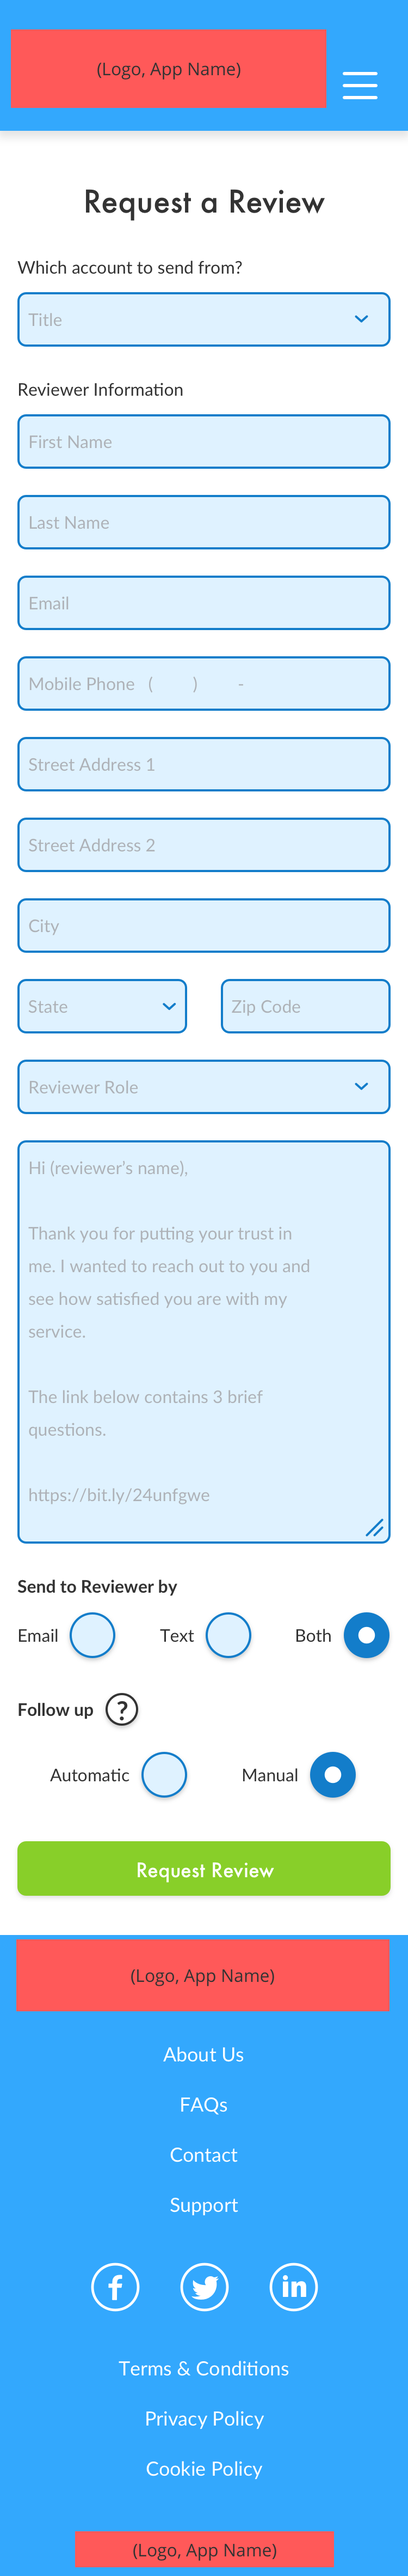
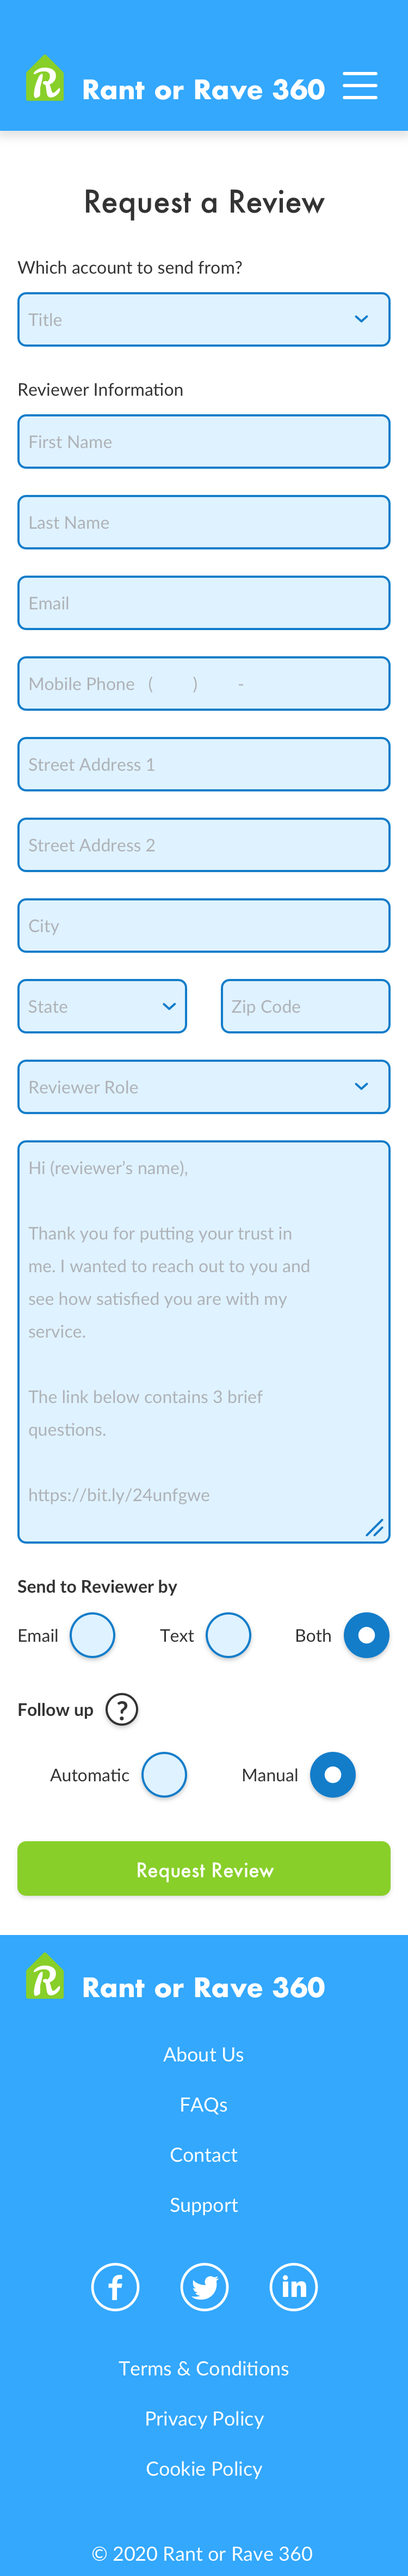
revealed Rant or Rave stuff, revised project page

Changed region(s): [[0.0307, 0.7465, 0.9813, 0.8087], [0.0307, 0.0, 0.7973, 0.0622], [0.184, 0.9642, 0.828, 1.0]]

diff --git a/spark6.html b/spark6.html
@@ -55,7 +55,7 @@
     <link rel="stylesheet" type="text/css" href="./public/css/style.css">
 
 
-    <title>SPARK6 Project "R"</title>
+    <title>Brenton Jenkins Rant or Rave 360 Project</title>
 
 </head>
 
@@ -101,14 +101,14 @@
     </div>
 
     <div class="display-flex">
-        <img class="spark6-top-pic" src=./public/images/spark6/homes-top-image.jpg
+        <img class="spark6-top-pic" src=./public/images/spark6/spark6-topimage.jpg
             alt="Advertisement Designs on Background">
     </div>
 
     <div class="container">
 
         <h1 class="project-title">
-            SPARK6 Project "R"
+            Rant or Rave 360
         </h1>
 
         <div class="col-xl-10 offset-xl-1 no-padding-sides">
@@ -132,10 +132,9 @@
 
             <p class="project-paragraph">
                 The client wants to start a ratings and reviews website to help people make informed, educated decisions
-                when choosing the right professionals to collaborate with for home-purchasing. The website will also allow professionals the
-                opportunity to obtain feedback. Project "R" is codename for the project until an MVP has been launched.
-                Please feel free to reach out to me about my policy on sharing detailed screens and interactive
-                prototypes.
+                when choosing the right professionals to collaborate with for home-purchasing. The website will also
+                allow professionals the
+                opportunity to obtain feedback.
             </p>
 
             <div class="flex-center">
@@ -155,7 +154,7 @@
                     </h3>
 
                     <p class="project-paragraph">
-                        Wireframes are completed, <br> starting work on visual design phase
+                        Wireframes, style guide, prototype
                     </p>
                 </div>
             </div>
@@ -222,6 +221,34 @@
                 feedback to the professional about the quality of work provided.
             </p>
 
+            <h3 class="project-subtitle anchor">
+                Wireframe Prototype
+            </h3>
+
+            <p class="project-paragraph">
+                The wireframe prototype can be viewed on InVision through the link below. It was created with Sketch and
+                made
+                interactive with InVision.
+            </p>
+
+            <div class="flex-center">
+                <div class="">
+                    <a href="https://brenton497289.invisionapp.com/public/share/VS10DXPY45#screens/475268935"
+                        target="_blank">
+                        <div class="display-flex">
+                            <img class="prototype-image" src=./public/images/spark6/spark6-wireframes.jpg
+                                alt="Rant or Rave 360 Wireframe Prototype">
+                        </div>
+                    </a>
+                    <a href="https://brenton497289.invisionapp.com/public/share/VS10DXPY45#screens/475268935"
+                        target="_blank">
+                        <p class="project-paragraph prototype-description">
+                            View the wireframe interactive prototype
+                        </p>
+                    </a>
+                </div>
+            </div>
+
             <div class="display-flex">
                 <img class="figure-image-sm" src=./public/images/spark6/spark6-wireframe-sample.png
                     alt="Request a Review screen (wireframe)">
@@ -231,20 +258,6 @@
                 Figure 1: Request a Review screen (wireframe)
             </p>
 
-            <p class="project-paragraph">
-                The image below is a screenshot of the wireframes as they are layed out in Sketch. These screen images
-                were uploaded to InVision, where they were then made into interactive prototypes.
-            </p>
-
-            <div class="display-flex">
-                <img class="figure-image-lg" src=./public/images/spark6/spark6-wireframes.jpg
-                    alt="Wireframes created in Sketch">
-            </div>
-
-            <p class="project-paragraph prototype-description">
-                Figure 2: Wireframes created in Sketch
-            </p>
-
             <h2 class="project-section-title">
                 High-Fidelity Mockups
             </h2>
@@ -252,8 +265,48 @@
             <p class="project-paragraph">
                 Once we determined the wireframes were at a point that
                 communicated the features and functionality
-                effectively, we were ready to move onto higher-fidelity mockups. The style guide below specified the
-                fonts, colors, and components for the Hi-Fi mockups.
+                effectively, we were ready to move onto higher-fidelity mockups.
+            </p>
+
+            <h3 class="project-subtitle anchor">
+                High-Fidelity Prototype
+            </h3>
+
+            <p class="project-paragraph">
+                The prototype can be viewed on InVision through the link below. It was created with Sketch and made
+                interactive with InVision.
+            </p>
+
+            <div class="flex-center">
+                <div class="">
+                    <a href="https://brenton497289.invisionapp.com/public/share/KV11TYV37S#screens/476684307"
+                        target="_blank">
+                        <div class="display-flex">
+                            <img class="prototype-image" src=./public/images/spark6/spark6-hifi-mockups.png
+                                alt="Rant or Rave 360 High-Fidelity Prototype">
+                        </div>
+                    </a>
+                    <a href="https://brenton497289.invisionapp.com/public/share/KV11TYV37S#screens/476684307"
+                        target="_blank">
+                        <p class="project-paragraph prototype-description">
+                            View the high-fidelity interactive prototype
+                        </p>
+                    </a>
+                </div>
+            </div>
+
+            <p class="project-paragraph space-60">
+                The screen below displays the Hi-Fi mockup version of the professional user’s experience for Requesting
+                a Review.
+            </p>
+
+            <div class="display-flex">
+                <img class="figure-image-sm outline-border" src=./public/images/spark6/spark6-hifi-sample.png
+                    alt="Request a Review screen (Hi-Fi screen)">
+            </div>
+
+            <p class="project-paragraph prototype-description">
+                Figure 2: Request a Review screen (Hi-Fi screen)
             </p>
 
             <div class="display-flex">
@@ -264,32 +317,28 @@
                 Figure 3: Style Guide
             </p>
 
+            <h3 class="project-subtitle anchor">
+                Logo Ideation
+            </h3>
+
             <p class="project-paragraph">
-                The screen below displays the Hi-Fi mockup version of the professional user’s experience for Requesting a Review.
+                As this project focuses on the home-buying industry, the idea for these logo concepts was to combine the "R" in Rant or Rave 360 with a symbol representing a house.
             </p>
 
             <div class="display-flex">
-                <img class="figure-image-sm outline-border" src=./public/images/spark6/spark6-hifi-sample.png
-                    alt="Request a Review screen (Hi-Fi screen)">
+                <img class="figure-image-xt" src=./public/images/spark6/logo-1.png alt="Style Guide">
             </div>
 
             <p class="project-paragraph prototype-description">
-                Figure 4: Request a Review screen (Hi-Fi screen)
-            </p>
-
-            <p class="project-paragraph">
-                The image below is a screenshot of the Hi-Fi mockups as they are layed out in Sketch. Like the
-                wireframes, these screen images
-                were uploaded to InVision, where they were then made into interactive prototypes.
+                Figure 4: Logo concept #1
             </p>
 
             <div class="display-flex">
-                <img class="figure-image-lg" src=./public/images/spark6/spark6-hifi-mockups.png
-                    alt="High-Fidelity Screens created in Sketch">
+                <img class="figure-image-xt" src=./public/images/spark6/logo-2.png alt="Style Guide">
             </div>
 
             <p class="project-paragraph prototype-description">
-                Figure 5: High-Fidelity Screens created in Sketch
+                Figure 5: Logo concept #2
             </p>
 
         </div>

diff --git a/about.html b/about.html
@@ -107,42 +107,28 @@
     <div class="container about-section">
         <div class="col-xl-10 offset-xl-1 no-padding-sides">
             <p>
-                I'm a UX Designer and Front End Developer, living in Redondo Beach in the Greater Los Angeles area. I
-                enjoy making life better
-                by designing usable, useful, and intuitive digital products. Performing thorough research, I am able
-                to back up design decisions and create custom solutions for each project.
+                I'm a UX Designer and Front End Developer, living in Redondo Beach in the Greater Los Angeles area.
             </p>
             <p>
-                The crossroads of art and science allows me to perform creative problem-solving and best understand how
-                to accomplish goals and serve people, always keeping the emotional impact in mind. I earned my Bachelor
-                of Science
-                from Cal Poly, San Luis Obispo.
+                After earning my Bachelor of Science from Cal Poly, San Luis Obispo, I worked in the food industry for
+                eight years. As a Product Development Manager, I oversaw products’ full life cycles - from ideation to
+                launch and post launch. Balancing multiple projects and deadlines reinforced my commitment to effective
+                time management, communication, and organizational skills.
             </p>
-            <!-- <p>
-                When I initially got into the tech space, I started in development by completing the full stack coding
-                bootcamp at UCLA Extension. I expanded my knowledge of
-                the digital experience by completing Specialization programs in UX Design and UX Research from
-                California Institute of the Arts, University of Michigan, and Georgia Tech. 
-            </p> -->
-            <!-- <p>
-                Graduating from Cal Poly, San Luis Obispo with a Bachelor of Science degree, I worked as
-                a product developer, flavor chemist, and distiller. As the Research and Development
-                Manager for a large snack foods company, I facilitated the development of dozens of products from
-                ideation to launch.
-            </p> -->
             <p>
-                A few years ago, I made a career change from the food industry to the digital world. While this endeavor
-                into UX Design introduced new possibilities and things to learn, I have incorporated skills from
-                previous experience. As the Research and Development manager for a large snack foods company, I oversaw
-                dozens of products from ideation to launch, always with the satisfaction of the customer in mind. This role
-                required strong time management and communication skills, balancing multiple projects and deadlines. I
-                stayed organized in order to coordinate test batches, recipe-writing, ingredient procurement, running
-                sensory panels, overseeing production, and creating nutrition panels.
+                Following my interest in the digital space, I completed the Fullstack Coding Boot Camp at UCLA Extension
+                and a series of courses in UX Design and UX Research. Today, I enjoy making digital experiences better
+                by designing accessible, useful, and intuitive digital products.
+            </p>
+            <p>
+                My design decisions are backed up with thorough research. I consider users’ different backgrounds,
+                including those who may have limited experience with technology. My experience in both design and
+                development helps me appreciate the importance of responsive products and strengthens my
+                interdepartmental communication with developers, designers, and stakeholders.
             </p>
             <p>
                 When I’m not designing and building digital products, I'm enjoying the outdoors, volleyball, pickleball,
-                podcasts, and
-                exploring new food and drink.
+                podcasts, and exploring new food and drink.
             </p>
             <p>
         </div>
@@ -167,7 +153,8 @@
                     </a>
                 </div>
                 <div class="col-12 col-sm-4 footer-content footer-right">
-                    <a class="resume" href="https://drive.google.com/file/d/1qkQi65MmUkhsjdT3QNNTtGuoFJA72zMF/view?usp=sharing"
+                    <a class="resume"
+                        href="https://drive.google.com/file/d/1qkQi65MmUkhsjdT3QNNTtGuoFJA72zMF/view?usp=sharing"
                         target="_blank">
                         Resume
                     </a>

diff --git a/index.html b/index.html
@@ -138,6 +138,24 @@
     <div class="portfolio-container" id="projects-link">
         <div class="row portfolio-row">
             <div class="col-xl-5 offset-xl-1 col-md-6 portfolio-box">
+                <a href="spark6.html">
+                    <div class="portfolio-item portfolio-item-top spark6-screenshot">
+                        <div class="portfolio-margin">
+                        </div>
+                    </div>
+                </a>
+                <div class="portfolio-description">
+                    <a href="spark6.html">
+                        <div class="portfolio-title">
+                            Rant or Rave 360
+                        </div>
+                        <div class="portfolio-text">
+                            Ratings and Reviews web app for the Home-Buying Industry
+                        </div>
+                    </a>
+                </div>
+            </div>
+            <div class="col-xl-5 col-md-6 portfolio-box">
                 <a href="resilience.html">
                     <div class="portfolio-item portfolio-item-top resilience-screenshot">
                     </div>
@@ -149,24 +167,6 @@
                         </div>
                         <div class="portfolio-text">
                             Web app to support those in need during COVID-19 crisis
-                        </div>
-                    </a>
-                </div>
-            </div>
-            <div class="col-xl-5 col-md-6 portfolio-box">
-                <a href="spark6.html">
-                    <div class="portfolio-item portfolio-item-top spark6-screenshot">
-                        <div class="portfolio-margin">
-                        </div>
-                    </div>
-                </a>
-                <div class="portfolio-description">
-                    <a href="spark6.html">
-                        <div class="portfolio-title">
-                            SPARK6 Project "R"
-                        </div>
-                        <div class="portfolio-text">
-                            Ratings and Reviews web app for the Home-Buying Industry
                         </div>
                     </a>
                 </div>

diff --git a/scifts.html b/scifts.html
@@ -141,7 +141,7 @@
             </h3>
 
             <p class="project-paragraph">
-                The high-fidelity prototype can be viewed here. This prototype was created with Sketch and made
+                The high-fidelity prototype can be viewed on InVision through the link below. It was created with Sketch and made
                 interactive with InVision.
             </p>
 
@@ -150,7 +150,7 @@
                     <a href="https://invis.io/8UTCX8WTGWM#/399955255_1_Homepage_-_Home_-" target="_blank">
                         <div class="display-flex">
                             <img class="prototype-image" src=./public/images/scifts/scifts-homepage.jpg
-                                alt="SCIFTS Homepage Hi-Fi Prototype">
+                                alt="SCIFTS Hi-Fi Prototype">
                         </div>
                     </a>
                     <a href="https://invis.io/8UTCX8WTGWM#/399955255_1_Homepage_-_Home_-" target="_blank">

diff --git a/public/css/style.css b/public/css/style.css
@@ -34,6 +34,10 @@ a:hover {
     color: rgb(247, 108, 94);
 }
 
+.space-60 {
+    margin-top: 60px;
+}
+
 .space-80 {
     margin-top: 80px;
 }
